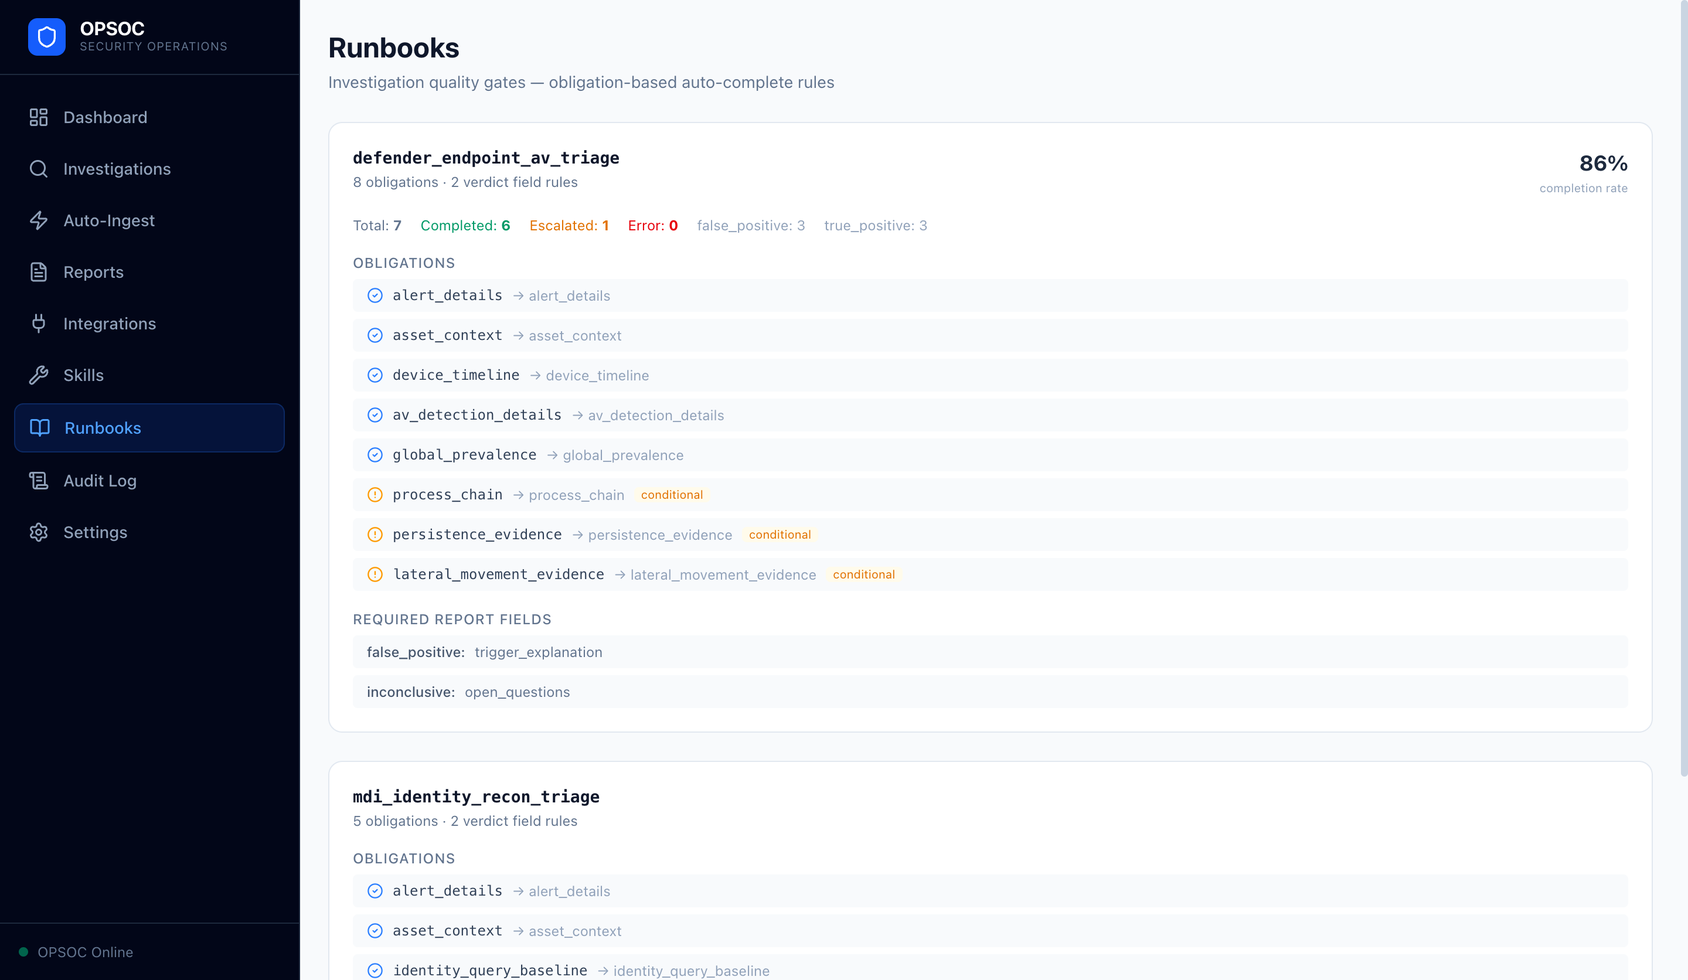
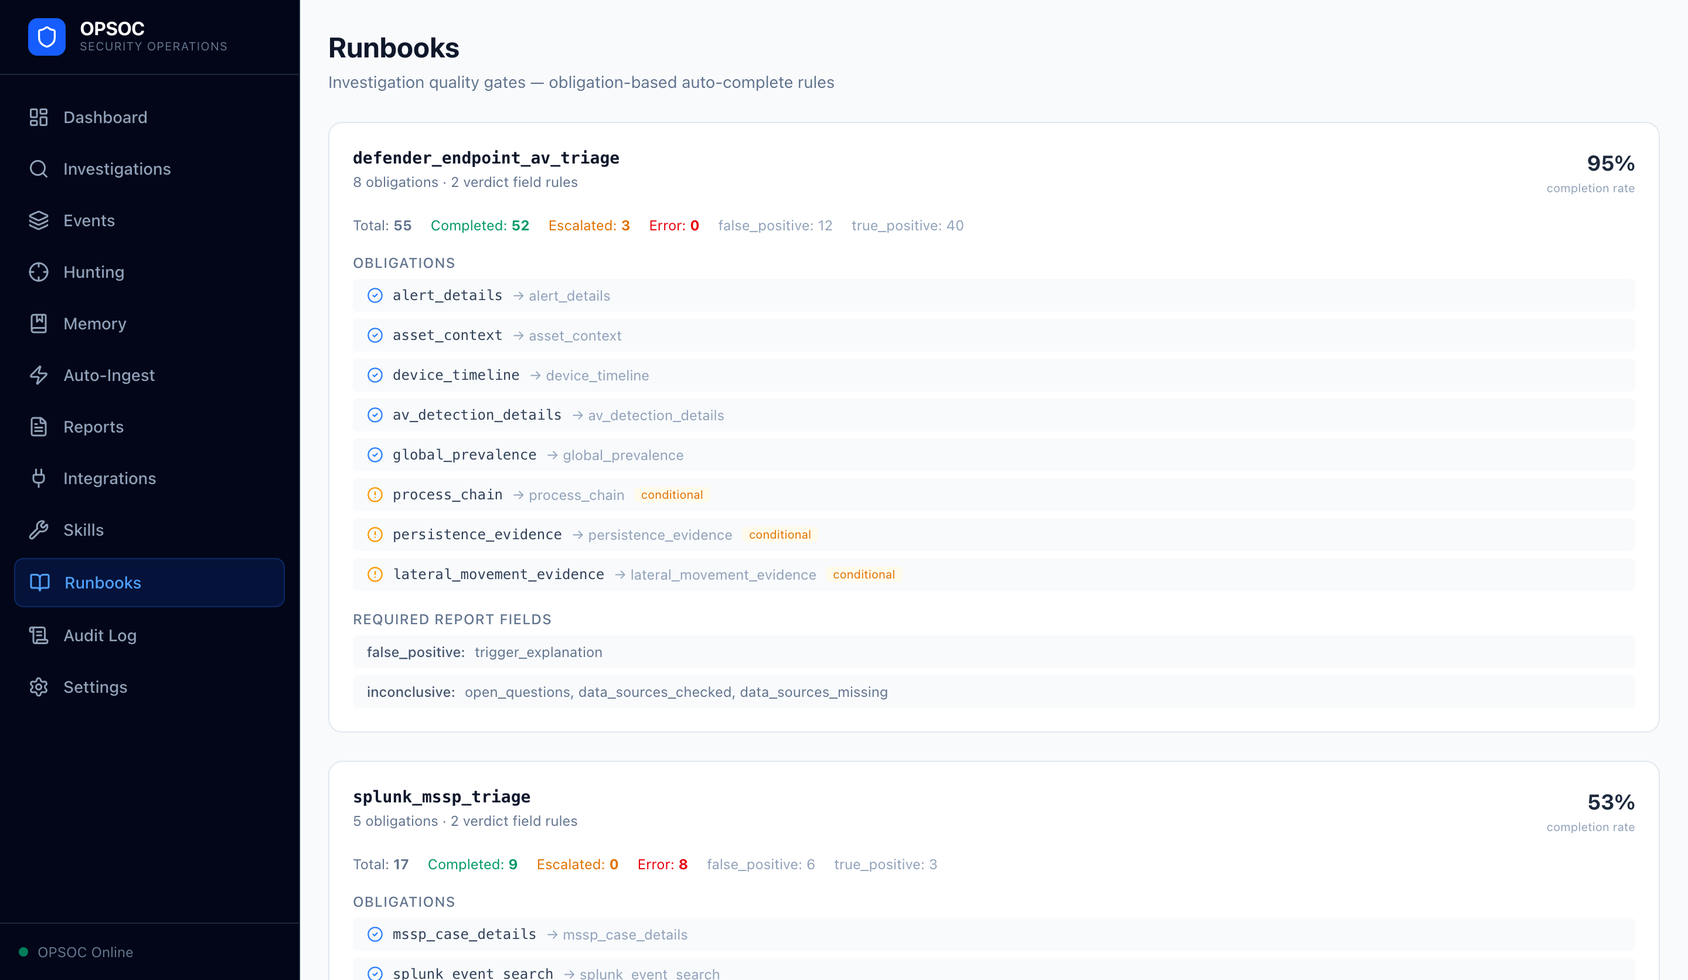
Reduce competitive disclosure surface in README + refresh runbooks screenshot
Trim implementation details that gave away design choices (entity-extraction
formulas, dedup algorithms, OAuth flow specifics, dual-AI dev workflow,
4-phase roadmap feature lists, hunting query inventory). Generalize a few
deployment-identifying phrases (NASDAQ/HKEX dual-listing, FDA/NMPA combo).

Update Runbooks screenshot to match current production state (2 active
families, no internal context-doc family name visible).

Public-facing positioning, metrics, and architecture diagram unchanged.

diff --git a/README.md b/README.md
@@ -32,14 +32,14 @@ The key insight behind OPSOC is that **the most valuable part of security operat
 - Which systems are business-critical and which are development sandboxes
 - The company's technology stack, network topology, and normal traffic patterns
 - Historical incident patterns and known false-positive signatures
-- Regulatory context (GxP, FDA/NMPA compliance requirements for biopharma)
+- Regulatory context (GxP and other industry-specific compliance requirements)
 - Relationships with IT, business owners, and external vendors
 
 This knowledge cannot be transferred to an MSSP. But it can be encoded into an AI system's investigation context. **OPSOC makes one person's expertise scalable** — the human provides judgment and context, the AI provides speed and breadth.
 
 ## The Solution
 
-**OPSOC** is a production-grade AI SOC platform deployed at a dual-listed biopharma company (NASDAQ/HKEX). It sits on top of the existing MSSP workflow:
+**OPSOC** is a production-grade AI SOC platform deployed at a publicly listed biopharma company. It sits on top of the existing MSSP workflow:
 
 1. **Auto-ingests** MSSP Jira escalation cases and Defender alerts
 2. **Cross-references** across 5 security platforms (XDR, SIEM, ITSM, Cloud, Firewall)
@@ -59,50 +59,27 @@ The operator reviews OPSOC's verdicts, handles true positives that require human
 | Cost reduction | ~90% vs. MSSP contract |
 | Platform integrations | 5 (XDR, SIEM, ITSM, Cloud, Firewall) + Microsoft Graph (Teams) |
 | LLM providers supported | 12 (cloud + local) |
-| Runbooks (obligation gates) | 5 active families |
+| Runbooks (obligation gates) | 2 active families |
 | KQL hunting queries | 11 (auto-run every 15 min) |
 
 ## Vision & Roadmap
 
 OPSOC currently covers **Blue Team Incident Response** — the MSSP replacement layer. The long-term vision is to apply the same AI-augmented approach across all security operations domains:
 
-```
-Phase 1 (Current) — Incident Response
-  ✅ MSSP case triage and investigation
-  ✅ Automated cross-platform evidence collection
-  ✅ Structured verdicts with quality enforcement
+- **Phase 1 (Current)** — Incident Response: MSSP case triage and investigation
+- **Phase 2** — Detection Engineering: using investigation outcomes to improve detection rules
+- **Phase 3** — Vulnerability Management: business-context-aware prioritization
+- **Phase 4** — Red Team / Offensive Security: AI-assisted attack surface analysis
 
-Phase 2 (Planned) — Detection Engineering
-  ○ Auto-tune detection rules based on false positive patterns
-  ○ Generate Splunk/KQL correlation rules from investigation findings
-  ○ Feedback loop: investigation results improve detection accuracy
+The unifying principle: **AI amplifies the security professional's institutional knowledge across every domain**, not just incident response. The skill-based architecture is designed to expand into each new domain without rebuilding the core.
 
-Phase 3 (Planned) — Vulnerability Management
-  ○ Prioritize vulnerabilities using business context (asset criticality, exposure)
-  ○ Cross-reference CVE data with actual environment configuration
-  ○ Track remediation across teams with automated follow-up
+## What's Shipped Recently
 
-Phase 4 (Planned) — Red Team / Offensive Security
-  ○ AI-assisted attack surface analysis
-  ○ Automated reconnaissance using the same skill framework
-  ○ Purple team exercises: compare detection coverage vs. attack paths
-```
-
-The unifying principle: **AI amplifies the security professional's institutional knowledge across every domain**, not just incident response. The skill-based architecture (34 tools today) is designed to expand into each new domain without rebuilding the core.
-
-## What's New Since Initial Demo (Apr 8 → Apr 27, 2026)
-
-The Apr 8 demo video shows the core investigation loop. Three weeks of follow-on work brought
-substantial new capabilities:
-
-| Capability | Date |
-|---|---|
-| **Phase 1 — Entity extraction + Structured Report** (deterministic IOC grounding, Pydantic-validated canonical report) | Apr 9 |
-| **Phase 2 — Security Event Model** (auto-correlate investigations by entity overlap, derived status, combined timeline) | Apr 9 |
-| **Phase 3 — Case Memory** (human-confirmed only, 3-signal matching, prompt injection as reference-only context) | Apr 11 |
-| **Hunting Module** (11 KQL queries from real APT, auto-run every 15min via MDE Advanced Hunting) | Apr 16 |
-| **Teams TP Notification** (delegated OAuth as soc@, Adaptive Card with IOC table + next actions, recipient management UI) | Apr 27 |
-| **Verdict Ratchet** (safety-rank ordering across 3 verdict-write paths to prevent weak-model downgrade) | Apr 27 |
+- Entity extraction + structured reports
+- Security event auto-correlation across investigations
+- Case memory with revision tracking
+- Hunting module — proactive threat hunting integrated into auto-ingest
+- Teams TP notification — automated escalation channel for confirmed true positives
 
 ## Live Investigation Demo
 
@@ -110,7 +87,7 @@ A Defender alert investigation — from natural language query to structured ver
 
 [![OPSOC Demo Video](docs/screenshots/demo-thumbnail.png)](https://youtu.be/VuMIycNDEQY)
 
-> **Click to watch.** The analyst types a free-form query about a Defender alert (FileZilla unwanted software detection). OPSOC's AI agent automatically calls `defender_raw_hunt` to search alerts, `get_asset_context` for device info, `get_device_timeline` for activity history, and `jira_search_issues` to cross-reference MSSP records — then delivers a structured False Positive verdict with full evidence trail. 10 turns, ~120 seconds, less than $0.02 in LLM API costs.
+> **Click to watch.** The analyst types a free-form query about a Defender alert (FileZilla unwanted software detection). OPSOC's AI agent automatically calls multiple skills across XDR, asset context, device timeline, and ticketing — then delivers a structured False Positive verdict with full evidence trail. ~10 turns, ~120 seconds, less than $0.02 in LLM API costs.
 
 ---
 
@@ -157,37 +134,37 @@ Complete investigation audit trail with date range filtering and CSV export (up 
 ![Audit Log](docs/screenshots/10-audit-log.png)
 
 ### Runbooks
-Obligation-based investigation quality gates. Each runbook defines required evidence (skills that must be called) and required report fields. 5 active runbook families (defender_endpoint_av_triage, splunk_mssp_triage, defender_alert_triage, defender_coverage, context_zailab).
+Obligation-based investigation quality gates. Each runbook defines required evidence (skills that must be called) and required report fields. Currently active families cover Defender endpoint AV triage and MSSP case triage via Splunk.
 
 ![Runbooks](docs/screenshots/11-runbooks.png)
 
-### Hunting (Apr 16, 2026)
-Proactive KQL threat hunting integrated into the auto-ingest cycle. 11 queries derived from a real APT incident — webshell creation, tunnel tools, SQL CLR injection, suspicious parent/child, staging directory activity, credential access tools, w3wp suspicious path, binary masquerading, known C2 IP/domain CLI, net user password change. Findings are deduped by `(query_name + event timestamp + dedup fields)` and the watermark advances fail-closed — only when all queries succeed in a cycle.
+### Hunting
+Proactive KQL threat hunting integrated into the auto-ingest cycle. 11 queries covering common APT TTPs — webshell creation, tunneling, lateral movement, credential access, and binary masquerading. Findings are deduped and the watermark advances fail-closed.
 
 ![Hunting](docs/screenshots/13-hunting.png)
 
-### Memory (Apr 11, 2026)
-Human-confirmed case memory with revision tracking. Each memory entry references a specific revision of the source investigation; mutating the verdict marks the memory stale. Three-signal matching (entity overlap × 2 + alert_type × 1 + title text overlap × 1.5) means first-round investigations can pull historical context even before tool calls have populated entities.
+### Memory
+Human-confirmed case memory with revision tracking. Each memory entry references a specific revision of the source investigation; mutating the verdict marks the memory stale. Multi-signal matching combining entity overlap, alert type, and title text means first-round investigations can pull historical context even before tool calls have populated entities.
 
 ![Memory](docs/screenshots/14-memory.png)
 
-### Events (Apr 9, 2026)
-Investigations auto-correlate into Security Events when their extracted entities overlap within a 4-hour symmetric window. Derived status (`confirmed_threat > needs_review > investigating > false_alarm > open`) is computed from constituent investigation verdicts; the combined timeline merges all member investigations chronologically. Manual unlink supported.
+### Events
+Investigations auto-correlate into Security Events when their extracted entities overlap. Derived status is computed from constituent investigation verdicts; the combined timeline merges all member investigations chronologically. Manual unlink supported.
 
 ![Events](docs/screenshots/15-events.png)
 
-### Teams Notifications — Settings (Apr 27, 2026)
-TP investigations dispatch a Teams Adaptive Card to operator-managed recipients. Authentication secrets stay in `.env`; only the recipient list is editable from the UI. DM (per-UPN), group chat (chat_id), and channel (team_id + channel_id) targets all supported. Auto-seeded from legacy env vars on first boot for backward compatibility.
+### Teams Notifications — Settings
+TP investigations dispatch a Teams Adaptive Card to operator-managed recipients. Authentication secrets stay in `.env`; only the recipient list is editable from the UI. Direct message, group chat, and channel targets all supported.
 
 ![Settings — Recipients](docs/screenshots/16-settings-recipients.png)
 
 ### Teams Notifications — Investigation Detail
-Per-investigation notification panel renders only on `verdict='true_positive'`. Read-only `GET` endpoint on panel mount (no Graph send), explicit `Resend` button for operator-driven retry. Each row shows target type, identifier, status badge (sent / failed / pending / indeterminate / skipped), claimed/completed timestamps, message_id for sent rows, expandable error JSON, and a clear button for failed/indeterminate rows.
+Per-investigation notification panel renders only on `verdict='true_positive'`. Shows per-target status, expandable error details, and operator-driven retry controls.
 
 ![Investigation — Notifications panel](docs/screenshots/17-investigation-notifications.png)
 
 ### Teams Notification — Live Adaptive Card
-The Teams DM that operators actually receive when an investigation reaches `true_positive`. Header combines verdict + execution status (`TRUE POSITIVE — BLOCKED`) for at-a-glance urgency. Status FactSet shows execution / persistence / lateral movement at a glance. IOCs are typed (IP, payload pattern, target domain) with grounding markers. Numbered next-actions are operator-grade and case-specific — for this Log4Shell scanning case, DeepSeek V4-pro produced concrete CIS-app remediation steps including the precise `log4j2.formatMsgNoLookups=true` mitigation flag and version-range advisory. The "Why this fired" section gives the analyst the trigger context.
+The Teams DM operators actually receive when an investigation reaches `true_positive`. Header combines verdict + execution status for at-a-glance urgency. Status FactSet shows execution / persistence / lateral movement at a glance. IOCs are typed (IP, payload pattern, target domain) with grounding markers. Numbered next-actions are operator-grade and case-specific.
 
 ![Teams Adaptive Card](docs/screenshots/18-teams-card.png)
 
@@ -206,28 +183,26 @@ The Teams DM that operators actually receive when an investigation reaches `true
 │              LangGraph Agent Loop (per investigation)                 │
 │  ┌──────────┐  ┌──────────┐  ┌──────────────────────────┐            │
 │  │ Routing  │→ │ Skill    │→ │ Verdict + Enforcer       │            │
-│  │ + Packs  │  │ Execution│  │ (safety-rank ratchet,    │            │
-│  └──────────┘  └──────────┘  │  alert-context aware)    │            │
-│       │            │         └──────────────────────────┘            │
+│  │ + Packs  │  │ Execution│  │                          │            │
+│  └──────────┘  └──────────┘  └──────────────────────────┘            │
+│       │            │                                                  │
 │       │            ↓                                                  │
 │       │     ┌──────────────────┐    ┌────────────────────┐           │
 │       │     │ Entity Extraction│ →  │ Case Memory        │           │
-│       │     │ (deterministic)  │    │ (3-signal match)   │           │
 │       │     └──────────────────┘    └────────────────────┘           │
 │       │                                       │                       │
 │       ↓                                       ↓                       │
 │  ┌────────────────────┐         ┌────────────────────────┐            │
 │  │ Security Events    │ ←───── │ Investigation Report   │            │
-│  │ (entity overlap)   │         │ (Pydantic-validated)  │            │
 │  └────────────────────┘         └────────────────────────┘            │
 ├──────────────────────────────────────────────────────────────────────┤
 │            Auto-Ingest (15min cycle) + Proactive Hunting              │
-│  Jira poll │ Defender poll │ 11 KQL queries (MDE Advanced Hunting)   │
+│  Jira poll │ Defender poll │ KQL hunting queries                      │
 ├──────────────────────────────────────────────────────────────────────┤
 │                       Multi-Provider LLM Layer                        │
 │  OpenRouter │ Kimi │ Anthropic │ OpenAI │ ChatGPT Codex │ Ollama │   │
 ├──────────────────────────────────────────────────────────────────────┤
-│                          25 Security Skills                           │
+│                          Security Skills                              │
 │  ┌───────────┐ ┌────────┐ ┌──────┐ ┌─────┐ ┌────────┐ ┌───────────┐ │
 │  │ Microsoft │ │ Splunk │ │ Jira │ │ AWS │ │ Forti  │ │ Microsoft │ │
 │  │ XDR/Entra │ │ Cloud  │ │Cloud │ │     │ │Analyzer│ │ Graph     │ │
@@ -253,15 +228,7 @@ The Teams DM that operators actually receive when an investigation reaches `true
 | Frontend | React + TypeScript + Tailwind CSS, 15 pages |
 | LLM | Multi-provider (OpenRouter, Kimi, Anthropic, OpenAI, ChatGPT Codex, Ollama, vLLM, ...) |
 | Platforms | Microsoft Defender XDR, Splunk Cloud, Jira Cloud, AWS, FortiAnalyzer, Microsoft Graph (Teams) |
-| Development | Claude Code (Opus 4.7) + Codex (GPT-5.4) review |
-
-## Development Methodology
-
-This project uses a **dual-AI development workflow**:
-- **Claude Code (Opus 4.6)**: Primary developer — architecture, implementation, self-review with mandatory invariant verification
-- **Codex (GPT-5.4)**: Independent reviewer — finds architectural blind spots that the implementer can't see from inside the code
-- **Three Engineering Disciplines**: Side-Effect Awareness, Failure Atomicity, Integration Boundary verification — enforced on every code change
-- **5-step change workflow**: Proposal → Implementation → Invariant Verification → Runtime Evidence → Codex Review
+| Development | AI-assisted with peer-model code review |
 
 ## About the Author
 
@@ -296,14 +263,14 @@ OPSOC 背后的核心洞察是：**安全运营中最有价值的部分是隐性
 - 哪些系统是业务关键的，哪些是开发沙箱
 - 公司的技术栈、网络拓扑和正常流量模式
 - 历史事件模式和已知的误报特征
-- 监管合规背景（GxP、FDA/NMPA 对生物制药的要求）
+- 监管合规背景（GxP 等行业特定合规要求）
 - 与 IT、业务负责人和外部供应商的关系
 
 这些知识无法转移给 MSSP。但它可以编码到 AI 系统的调查上下文中。**OPSOC 让一个人的专业能力可扩展** — 人提供判断力和上下文，AI 提供速度和广度。
 
 ## 解决方案
 
-**OPSOC** 是一个生产级 AI SOC 平台，部署于一家纳斯达克/港交所双重上市的生物制药公司：
+**OPSOC** 是一个生产级 AI SOC 平台，部署于一家上市生物制药公司：
 
 1. **自动摄入** MSSP 的 Jira 升级案例和 Defender 告警
 2. **跨平台关联** 5 个安全平台（XDR、SIEM、ITSM、Cloud、Firewall）
@@ -323,7 +290,7 @@ OPSOC 背后的核心洞察是：**安全运营中最有价值的部分是隐性
 | 成本降低 | 相比 MSSP 合同降低约 90% |
 | 平台集成 | 5 个（XDR、SIEM、ITSM、Cloud、Firewall）+ Microsoft Graph（Teams 通知） |
 | 支持 LLM 提供商 | 12 个（含本地模型） |
-| Runbook（义务质量门）| 5 个活跃家族 |
+| Runbook（义务质量门）| 2 个活跃家族 |
 | KQL Hunting 查询 | 11 个（每 15 分钟自动运行） |
 
 ## 实时调查演示
@@ -332,7 +299,7 @@ OPSOC 背后的核心洞察是：**安全运营中最有价值的部分是隐性
 
 [![OPSOC 演示视频](docs/screenshots/demo-thumbnail.png)](https://youtu.be/VuMIycNDEQY)
 
-> **点击观看。** 分析师输入自由查询（FileZilla 捆绑软件检测），OPSOC AI Agent 自动调用 `defender_raw_hunt` 搜索告警、`get_asset_context` 获取设备信息、`get_device_timeline` 查询活动历史、`jira_search_issues` 交叉比对 MSSP 记录 — 最终输出结构化 False Positive 判定及完整证据链。10 轮对话，约 120 秒，LLM API 成本不到 $0.02。
+> **点击观看。** 分析师输入自由查询（FileZilla 捆绑软件检测），OPSOC AI Agent 自动调用 XDR、资产上下文、设备时间线、Jira 工单等多个 skill — 最终输出结构化 False Positive 判定及完整证据链。约 10 轮对话，约 120 秒，LLM API 成本不到 $0.02。
 
 ---
 
@@ -340,44 +307,20 @@ OPSOC 背后的核心洞察是：**安全运营中最有价值的部分是隐性
 
 OPSOC 当前覆盖 **Blue Team 事件响应** — 即 MSSP 替代层。长期愿景是将同样的 AI 增强方法应用到安全运营的所有领域：
 
-```
-第一阶段（当前） — 事件响应
-  ✅ MSSP 案例分流与调查
-  ✅ 自动化跨平台证据收集
-  ✅ 结构化判定 + 质量门控
+- **第一阶段（当前）** — 事件响应：MSSP 案例分流与调查
+- **第二阶段** — 检测工程：用调查结果改进检测规则
+- **第三阶段** — 漏洞管理：基于业务上下文的优先级判定
+- **第四阶段** — Red Team / 攻击性安全：AI 辅助攻击面分析
 
-第二阶段（规划中） — 检测工程
-  ○ 基于误报模式自动调优检测规则
-  ○ 从调查结果生成 Splunk/KQL 关联规则
-  ○ 反馈闭环：调查结果改善检测准确度
-
-第三阶段（规划中） — 漏洞管理
-  ○ 利用业务上下文确定漏洞优先级（资产关键性、暴露面）
-  ○ 将 CVE 数据与实际环境配置交叉比对
-  ○ 跨团队追踪修复进度
-
-第四阶段（规划中） — Red Team / 攻击性安全
-  ○ AI 辅助攻击面分析
-  ○ 使用同一技能框架进行自动化侦察
-  ○ Purple Team 演练：检测覆盖 vs. 攻击路径对比
-```
-
-统一原则：**AI 将安全专家的组织知识放大到每个领域**，而不仅仅是事件响应。技能架构（目前 34 个工具）设计为可扩展到每个新领域，无需重建核心。
+统一原则：**AI 将安全专家的组织知识放大到每个领域**，而不仅仅是事件响应。基于 skill 的架构设计为可扩展到每个新领域，无需重建核心。
 
 ## 技术亮点
 
-- **LangGraph Agent Loop**: 每次调查运行独立的 agent loop，基于告警类型自动选择 skill pack
-- **Fail-closed 设计**: 所有无法得出结论的调查路径都会升级，绝不静默丢弃告警
-- **多模型支持**: 12 种 LLM provider，每次调查可独立选择模型，支持 Ollama/vLLM 本地部署
-- **Runbook Enforcer**: 四状态义务模型（met/not_applicable/unavailable/missing），自动质量门控
-- **完整审计链**: 每个决策和操作都有记录，5,600+ 事件
-
-## 开发方法
-
-采用 **双 AI 开发工作流**：
-- **Claude Code (Opus 4.6)**: 主开发者 — 架构设计、代码实现、带不变量验证的自审
-- **Codex (GPT-5.4)**: 独立审查者 — 发现实现者从代码内部看不到的架构盲点
-- **三条工程纪律**: 副作用感知、失败原子性、集成边界验证 — 每次代码变更强制执行
+- **LangGraph Agent Loop**：每次调查运行独立的 agent loop，基于告警类型自动选择 skill pack
+- **Fail-closed 设计**：所有无法得出结论的调查路径都会升级，绝不静默丢弃告警
+- **多模型支持**：12 种 LLM provider，每次调查可独立选择模型，支持 Ollama/vLLM 本地部署
+- **Runbook Enforcer**：基于义务的质量门控
+- **完整审计链**：每个决策和操作都有记录
 
 ## 关于作者
 
@@ -388,4 +331,4 @@ OPSOC 当前覆盖 **Blue Team 事件响应** — 即 MSSP 替代层。长期愿
 
 ---
 
-*Built with Claude Code (Opus 4.6) + Codex (GPT-5.4) review pipeline*
+*Built with AI-assisted development workflow*
